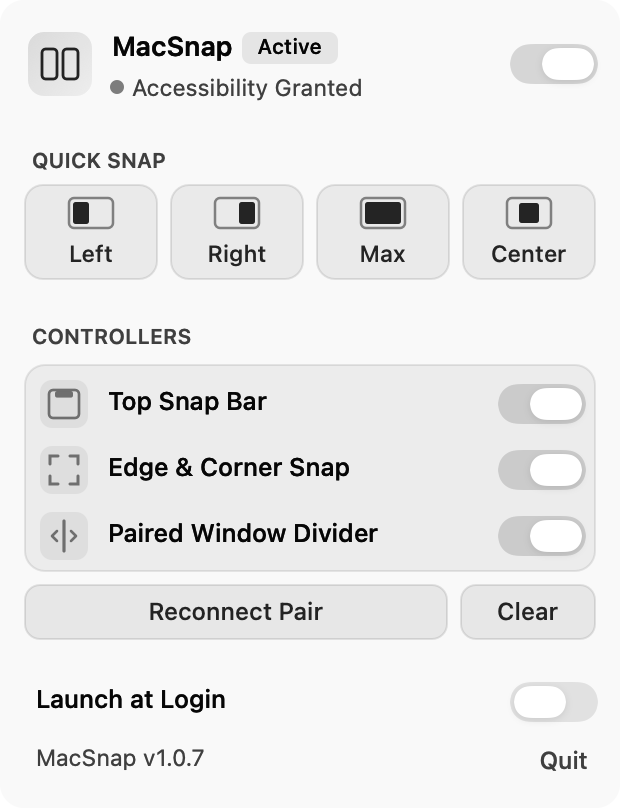
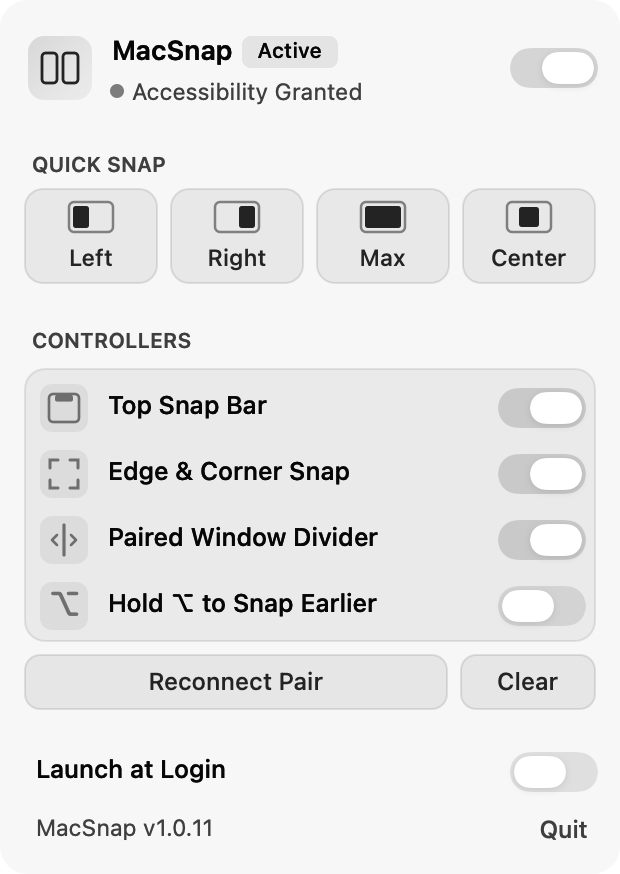
docs: refresh website menu preview for Option snapping
Render current native sections and version metadata offscreen. Update bilingual image descriptions, dimensions and cache revision; include a regeneration script.

diff --git a/site/index.html b/site/index.html
@@ -146,10 +146,10 @@
           </div>
           <div class="native-menu">
             <img
-              src="assets/menu-native.png"
+              src="assets/menu-native.png?v=1.0.11-build.12"
               width="620"
-              height="808"
-              alt="MacSnap&#x27;s native controls: Left, Right, Max and Center Quick Snap actions, plus layout, snapping and paired divider options."
+              height="874"
+              alt="MacSnap&#x27;s native controls: Quick Snap actions, layout bar, edge snapping, paired resizing and the Hold Option to Snap Earlier switch."
               fetchpriority="high"
             />
           </div>

diff --git a/site/pt/index.html b/site/pt/index.html
@@ -146,10 +146,10 @@
           </div>
           <div class="native-menu">
             <img
-              src="../assets/menu-native.png"
+              src="../assets/menu-native.png?v=1.0.11-build.12"
               width="620"
-              height="808"
-              alt="Controles nativos do MacSnap: Quick Snap com Left, Right, Max e Center, e opções de layouts, encaixe e divisor pareado."
+              height="874"
+              alt="Controles nativos do MacSnap: Quick Snap, barra de layouts, encaixe nas bordas, divisor pareado e o switch Hold Option to Snap Earlier."
               fetchpriority="high"
             />
           </div>

diff --git a/website/template.html b/website/template.html
@@ -145,9 +145,9 @@
           </div>
           <div class="native-menu">
             <img
-              src="{{asset_prefix}}assets/menu-native.png"
+              src="{{asset_prefix}}assets/menu-native.png?v=1.0.11-build.12"
               width="620"
-              height="808"
+              height="874"
               alt="{{copy.macsnap_s_native_controls_left_right_max_and_center_quic}}"
               fetchpriority="high"
             />

diff --git a/scripts/render-site-menu.py b/scripts/render-site-menu.py
@@ -1,0 +1,96 @@
+#!/usr/bin/env python3
+"""Render current native menu sections offscreen, without starting or installing MacSnap."""
+import argparse
+from pathlib import Path
+import plistlib
+import subprocess
+import tempfile
+
+ROOT = Path(__file__).resolve().parent.parent
+
+RENDERER = r'''
+import QuartzCore
+@MainActor
+func renderWebsiteMenu(to path: String, version: String) throws {
+    _ = NSApplication.shared
+    let appearance = NSAppearance(named: .aqua)!
+    let width: CGFloat = 310
+    NSApplication.shared.appearance = appearance
+    var sections: [NSView] = []
+    appearance.performAsCurrentDrawingAppearance {
+      sections = [
+        MenuHeaderView(width: width, isMasterEnabled: true, isAccessibilityGranted: true,
+                       onMasterToggle: { _ in }, onOpenAccessibility: {}),
+        QuickSnapSectionView(width: width, onSelectZone: { _ in }),
+        ControllersSectionView(width: width, isTopBarEnabled: true, isEdgeSnapEnabled: true,
+                               isDividerEnabled: true, isOptionSnapEnabled: false,
+                               onToggleTopBar: { _ in }, onToggleEdgeSnap: { _ in },
+                               onToggleDivider: { _ in }, onToggleOption: { _ in },
+                               onReconnectPair: {}, onClearPair: {}),
+        MenuFooterSectionView(width: width, isLaunchAtLogin: false, versionText: version,
+                              onToggleLaunchAtLogin: { _ in }, onQuit: {})
+      ]
+    }
+    let gap: CGFloat = 8
+    let height = sections.reduce(0) { $0 + $1.frame.height } + gap * CGFloat(sections.count + 1)
+    let container = NSView(frame: NSRect(x: 0, y: 0, width: width, height: height))
+    container.appearance = appearance
+    container.wantsLayer = true
+    container.layer?.cornerRadius = 14
+    container.layer?.masksToBounds = true
+    container.layer?.backgroundColor = NSColor(calibratedWhite: 0.96, alpha: 1).cgColor
+    var y = height - gap
+    for section in sections {
+        y -= section.frame.height
+        section.setFrameOrigin(NSPoint(x: 0, y: y))
+        container.addSubview(section)
+        y -= gap
+    }
+    let window = NSWindow(contentRect: container.bounds, styleMask: [.borderless], backing: .buffered, defer: false)
+    window.appearance = appearance
+    window.contentView = container
+    container.layoutSubtreeIfNeeded()
+    window.displayIfNeeded()
+    CATransaction.flush()
+    let bitmap = NSBitmapImageRep(bitmapDataPlanes: nil, pixelsWide: Int(width * 2), pixelsHigh: Int(height * 2),
+        bitsPerSample: 8, samplesPerPixel: 4, hasAlpha: true, isPlanar: false,
+        colorSpaceName: .deviceRGB, bytesPerRow: 0, bitsPerPixel: 0)!
+    bitmap.size = container.bounds.size
+    appearance.performAsCurrentDrawingAppearance {
+        container.cacheDisplay(in: container.bounds, to: bitmap)
+    }
+    try bitmap.representation(using: .png, properties: [:])!.write(to: URL(fileURLWithPath: path))
+    print("Rendered native menu sections at \(bitmap.pixelsWide) × \(bitmap.pixelsHigh)")
+}
+'''
+
+
+def main():
+    parser = argparse.ArgumentParser(description=__doc__)
+    parser.add_argument('--output', type=Path, default=ROOT / 'site/assets/menu-native.png')
+    args = parser.parse_args()
+    subprocess.run(['swift', 'build'], cwd=ROOT, check=True)
+    binary_dir = Path(subprocess.check_output(['swift', 'build', '--show-bin-path'], cwd=ROOT, text=True).strip())
+    info = plistlib.loads((ROOT / 'Resources/Info.plist').read_bytes())
+    output = args.output.resolve()
+    output.parent.mkdir(parents=True, exist_ok=True)
+    with tempfile.TemporaryDirectory(prefix='macsnap-menu-render-') as directory:
+        stage = Path(directory)
+        source = ROOT / 'Sources/MacSnap/Features/UI/MenuBarController.swift'
+        menu = stage / 'MenuBarController.swift'
+        menu.write_text(source.read_text() + '\n' + RENDERER)
+        entry = stage / 'main.swift'
+        entry.write_text('import AppKit\ntry renderWebsiteMenu(to: CommandLine.arguments[1], version: CommandLine.arguments[2])\n')
+        sources = sorted(path for path in (ROOT / 'Sources/MacSnap').rglob('*.swift')
+                         if path != source and path.name != 'main.swift')
+        executable = stage / 'render-menu'
+        subprocess.run(['xcrun', 'swiftc', '-swift-version', '6', '-module-name', 'MacSnap',
+                        '-I', str(binary_dir), '-F', str(binary_dir), '-framework', 'Sparkle',
+                        '-Xlinker', '-rpath', '-Xlinker', str(binary_dir),
+                        *map(str, sources), str(menu), str(entry),
+                        str(binary_dir / 'MacSnapUninstallation.o'), '-o', str(executable)], cwd=ROOT, check=True)
+        subprocess.run([str(executable), str(output), 'MacSnap v' + info['CFBundleShortVersionString']], cwd=ROOT, check=True)
+
+
+if __name__ == '__main__':
+    main()

diff --git a/site/assets/README.md b/site/assets/README.md
@@ -1,15 +1,17 @@
 # Landing page asset provenance
 
-Generated on 2026-10-29. The PNGs are native AppKit **source renders**, not a screen recording or a capture of a user's desktop.
+Initial assets generated on 2026-10-29; the menu render was refreshed on 2026-11-02 for MacSnap 1.0.11/build 12. The PNGs are native AppKit **source renders**, not a screen recording or a capture of a user's desktop.
 
 | Asset | Dimensions | Source |
 | --- | --- | --- |
 | `icon.png` | 256 × 256 px | Existing `Resources/AppIcon.icns`, exported with `sips` |
 | `icon-128.png` | 128 × 128 px | Same original icon |
-| `menu-native.png` | 620 × 808 px | Production `MenuHeaderView`, `QuickSnapSectionView`, `ControllersSectionView`, and `MenuFooterSectionView` |
+| `menu-native.png` | 620 × 874 px | Production `MenuHeaderView`, `QuickSnapSectionView`, `ControllersSectionView`, and `MenuFooterSectionView` |
 | `layouts-native.png` | 1360 × 188 px | Production `SnapLayoutBarView` in expanded landscape mode, with its first slot hovered programmatically |
 | `social-preview.png` | 1200 × 630 px | English browser-rendered editorial composition using the original icon, the native menu render and the self-hosted fonts below |
 | `social-preview-pt.png` | 1200 × 630 px | Original Portuguese version of the same editorial composition |
+
+Run `python3 scripts/render-site-menu.py` on macOS to regenerate `menu-native.png` from the current production sections and version metadata. The Option accelerator is shown off, matching its default; other enabled states are illustrative.
 
 The native views were compiled from this checkout with Swift 6 into a temporary render harness outside the repository. The harness appended an entry point to a temporary copy of `MenuBarController.swift` to access its private section views, and otherwise compiled the unchanged production sources (excluding the app's normal `main.swift`). It created offscreen AppKit windows, used the Aqua appearance and `NSView.cacheDisplay` at 2× resolution, and wrote PNGs. No window was shown, no event monitor was started, no Accessibility prompt was requested, no user windows were moved, and no preferences were changed.
 
@@ -18,7 +20,7 @@ The menu image is a composition of the actual section views on a neutral backgro
 Source SHA-256 at generation:
 
 ```text
-b8de5f2c12c061059cd458e3816003ebc34b9798fad086103b34a6bcd6646284  Sources/MacSnap/Features/UI/MenuBarController.swift
+d9b245cc65150b03eec4771903faf153ccff5615259a84b1820d2358b32360a9  Sources/MacSnap/Features/UI/MenuBarController.swift
 785eeb3efecbf5db051346567d921ceb081c1f74e8e4c8feb76d7cf317e1a831  Sources/MacSnap/Features/UI/SnapLayoutBarWindow.swift
 d7262af1b03ea374c4d732c78b1f587e10b931886afa91242c4a512885b241cd  Resources/AppIcon.icns
 ```
